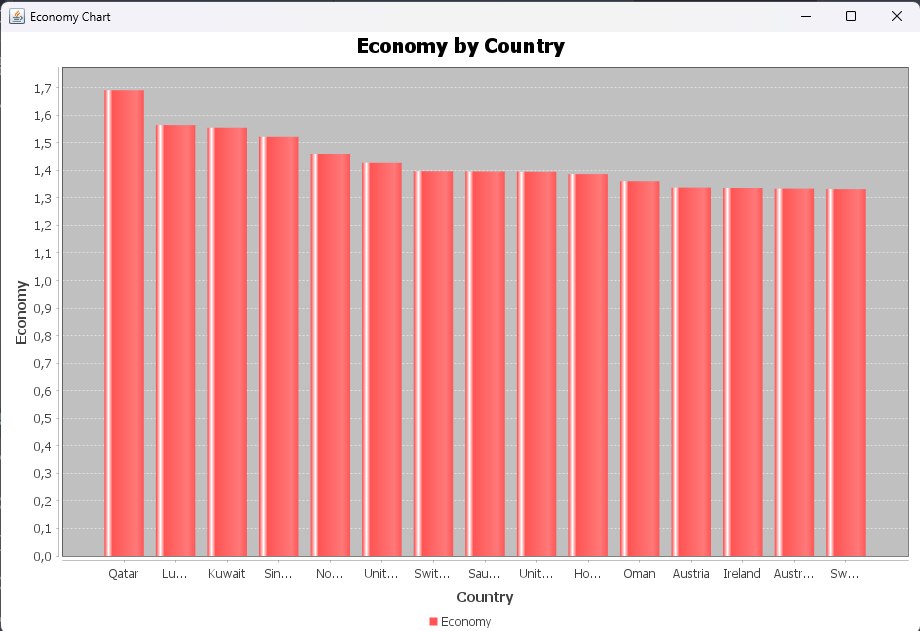
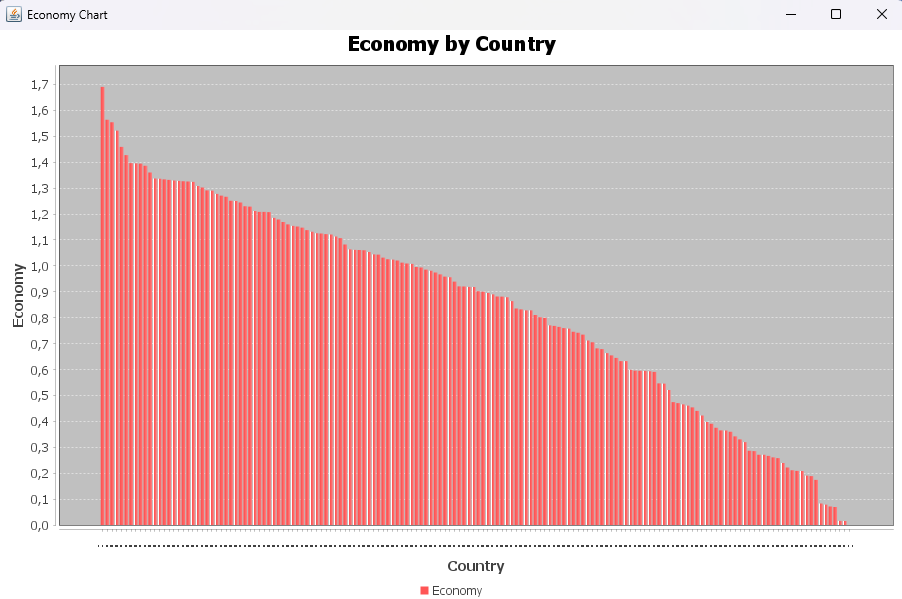
zxc

diff --git a/src/main/java/project/chart/EconomyChart.java b/src/main/java/project/chart/EconomyChart.java
@@ -18,8 +18,7 @@ public class EconomyChart {
         String sql =
                 "SELECT country, economy " +
                         "FROM country " +
-                        "ORDER BY economy DESC " +
-                        "LIMIT 15";
+                        "ORDER BY economy DESC ";
 
         try (Connection conn = Database.connect();
              Statement stmt = conn.createStatement();
